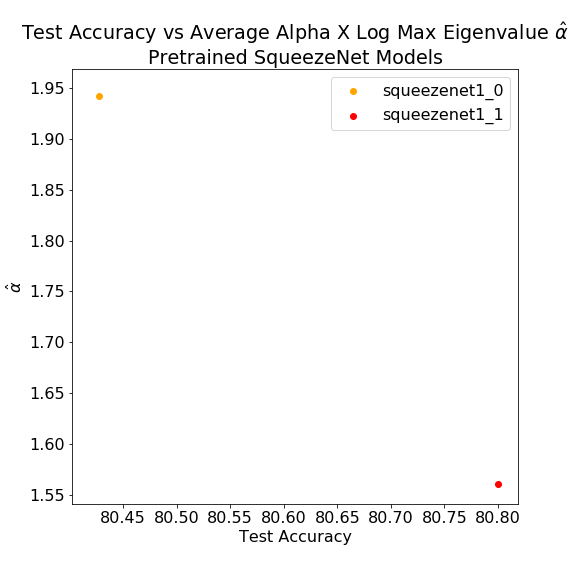
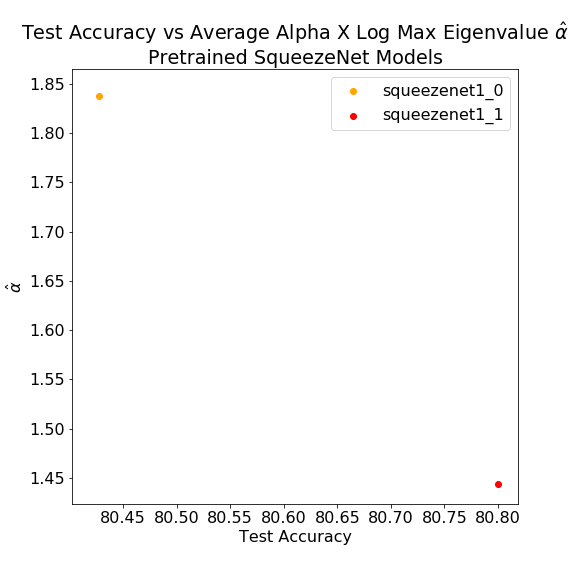
updated paper

diff --git a/test_accuracy_paper/test_accuracy_theory.tex b/test_accuracy_paper/test_accuracy_theory.tex
@@ -145,11 +145,11 @@ To that end, we consider a log complexity
 
 $$\log\mathcal{C}\sim\log\bigg[\Vert\mathbf{W}_{1}\Vert\times\Vert\mathbf{W}_{2}\Vert\cdots\Vert\mathbf{W}_{L}\Vert\bigg]$$
 
-$$\sim\bigg[\log\Vert\mathbf{W}_{1}\Vert+\log\Vert\mathbf{W}_{2}\Vert\cdots\log\Vert\mathbf{W}_{L}\Vert\bigg]$$
+$$\log\mathcal{C}\sim\bigg[\log\Vert\mathbf{W}_{1}\Vert+\log\Vert\mathbf{W}_{2}\Vert\cdots\log\Vert\mathbf{W}_{L}\Vert\bigg]$$
 
 We define the average log norm of the weight matrices as
 
-$$\langle\log\Vert\mathbf{W}\Vert_{F}\rangle=\dfrac{1}{L}\sum_{i=1}^{L}\log\Vert\mathbf{W}_{i}\Vert$$
+$$\langle\log\Vert\mathbf{W}\Vert_{F}\rangle=\dfrac{1}{N_{L}}\sum_{L}\log\Vert\mathbf{W}_{L}\Vert$$
 
 This is actually a pretty good complexity metric for comparing the test accuracies of different, pre-trained DNNs in the same series.
 Figure~ref{fig:vgg} plots $\langle\log\Vert\mathbf{W}\Vert_{F}\rangle$ vs the reported (Top1) test accuracy for the series of pre-trained
@@ -270,7 +270,6 @@ $\mathcal{S}^{log}_{Rank}$ and the ESD Power Law exponent $\alpha$
 \emph{Log-Units Stable Rank:  } 
 $$\mathcal{S}^{log}_{Rank}:=\dfrac{\log\Vert\mathbf{W}\Vert^{2}_{F}}{\log\lambda_{max}}$$
 
-
 \charlesX{I am not sure why the slope is not negative...the eigenvalues are VERY LARGE, and $\log\lambda_{max}~3-5$ so this just is OFF.
 Are we missing something in the derivation, like the fact that the norm squared has to be positive ?  HELP}
 
@@ -278,19 +277,21 @@ Are we missing something in the derivation, like the fact that the norm squared 
 \paragraph{Defining the Layer Weight Matrices}
 \charles{Here we describe how we exact the matrices. Kinda did this above already. We have not done this yet for convolutional layers--thats \emph{another} paper}
 
-$$\text{Linear Layer:}\;\;\log\Vert\mathbf{W}_{L}\Vert^{2}\rightarrow\lambda^{max}_{L}\alpha_{L}$$
+$$\text{Linear Layer:}\;\;\log\Vert\mathbf{W}_{L}\Vert^{2}_{F}\rightarrow\log\lambda^{max}_{L}\alpha_{L}$$
 
 For the Conv2D layers, we relate the 'Norm' of the 4-index Tensor $\mathbf{W}_{l}$ to the sum of the $n_{L}=c\times d$ terms for each feature map, giving 
 
-$$\text{Conv2D Layer:}\;\;\log\Vert\mathbf{W}_{L}\Vert^{2}\rightarrow \sum_{i=1}^{n_{L}}\lambda^{max}_{i,L}\alpha_{L,i}$$
+$$\text{Conv2D Layer:}\;\;\log\Vert\mathbf{W}_{L}\Vert^{2}_{F}\rightarrow \sum_{i=1}^{n_{L}}\log\lambda^{max}_{i,L}\alpha_{L,i}$$
 
-So in the expression for the product norm for $\log\mathcal{C}$, let us replace each $\log\Vert\mathbf{W}_{L}\Vert$ for layer $L$ with corresponding above expressions, and take the average over all $N_{\alpha}$  matrices.  This lets us relate the product norm complexity metric to the weighted average of power law exponents, giving
+We also note that $\log\Vert\mathbf{W}_{L}\Vert^{2}_{F}=2\log\Vert\mathbf{W}_{L}\Vert_{F}$ 
 
-$$\langle\log\Vert\mathbf{W}\Vert\rangle\rightarrow\hat{\alpha}:$$ 
+So in the expression for the product norm for $\log\mathcal{C}$, we can replace each $\log\Vert\mathbf{W}_{L}\Vert$ term for layer $L$ with the corresponding above expressions, and take the average over all $N_{\alpha}$  matrices.  This lets us relate the product norm complexity metric to the weighted average of power law exponents, giving
+
+$$2\log\mathcal{C}=\langle\log\Vert\mathbf{W}\Vert^{2}_{F}\rangle\rightarrow\hat{\alpha}$$ 
 
 where
 
-$$\hat{\alpha}:=\dfrac{1}{N_{\alpha}}\sum_{i,l}\lambda^{max}_{i,j}\alpha_{i,l}$$
+$$\hat{\alpha}:=\dfrac{1}{N_{\alpha}}\sum_{i,l}\log\lambda^{max}_{i,j}\alpha_{i,l}$$
 
 This expression resembles the more familiar product norm, but accounts for finite size effects that the product norm relation over estimates.
 % move below?

diff --git a/test_accuracy_paper/test_accuracy_appendix.tex b/test_accuracy_paper/test_accuracy_appendix.tex
@@ -62,12 +62,12 @@ ShuffleNet & shufflenetv2\_wd2 & 41.48 & \\
 
 \begin{figure}[!htb]
     \centering
-    \subfigure[DenseNet]{
-        \includegraphics[scale=0.25]{img/DenseNet_top1-lognorms.png} 
+    \subfigure[CondenseNet]{
+        \includegraphics[scale=0.25]{img/CondenseNet-w_alphas.png} 
         \label{fig:densenet-small}
     }
     \subfigure[DPN]{
-        \includegraphics[scale=0.25]{img/DPN_top1-lognorms.png} 
+        \includegraphics[scale=0.25]{img/DPN-w_alphas.png} 
         \label{fig:dpn-net}
     }
            \caption{DenseNet, DPN}
@@ -78,12 +78,12 @@ ShuffleNet & shufflenetv2\_wd2 & 41.48 & \\
 \begin{figure}[!htb]
     \centering
       \subfigure[ShuffleNet]{
-        \includegraphics[scale=0.25]{img/ShuffleNet_top1-lognorms.png} 
+        \includegraphics[scale=0.25]{img/ShuffleNet-w_alphas.png}
         \label{fig:shufflenet-small}
     }
-    \subfigure[MeNet]{
-        \includegraphics[scale=0.25]{img/MeNet_top1-lognorms.png} 
-        \label{fig:menet-net}
+   \subfigure[MobileNet]{
+        \includegraphics[scale=0.25]{img/MobileNet-w_alphas.png} 
+        \label{fig:resnet-small}
     }
         \caption{ShuffleNet, MeNet}
     \label{fig:more-examples1}
@@ -92,57 +92,42 @@ ShuffleNet & shufflenetv2\_wd2 & 41.48 & \\
 
 
 
-
-
 \begin{figure}[!htb]
- \centering
-   \includegraphics[scale=0.30]{img/ResNet_top1-lognorms.png}
-   \caption{
-Pretrained ResNet models available in OSMR package}
-  \label{fig:resnet}
+    \centering
+      \subfigure[SeResNet]{
+        \includegraphics[scale=0.25]{img/SeResNet-w_alphas.png}
+        \label{fig:shufflenet-small}
+    }
+         \subfigure[SeResNeXt]{
+        \includegraphics[scale=0.25]{img/SeResNeXt-w_alphas.png}
+        \label{fig:shufflenet-small}
+    }
+
+        \caption{SeResNet, SeResNeXt}
+    \label{fig:more-examples1}
 \end{figure}
 
 
 
 
 
-\begin{table}[t]
-\small
-\begin{center}
-\begin{tabular}{|p{1in}|c|c|c|c|c|c|c|}
-\hline
-Architecture 
- & Model
- & Top 1 Error & $\hat{\alpha}$ \\
-\hline
-ResNet (small)  & resnet10 & 37.46 & \\
-& resnet12 & 36.18 & \\
-& resnet14 & 33.17 & \\
-& resnet16 & 30.9 & \\
-& resnet18 & 29.52 & \\
-& resnet34 & 25.66 & \\
-& resnet50 & 23.79 & \\
-\hline
-CondenseNet & condensenet74\_c4\_g4 & 26.25 & \\
-& condensenet74\_c8\_g8 & 28.93 & \\
-\hline
-\end{tabular}
-\end{center}
-\caption{Counter Examples}
-\label{table:models}
-\end{table}
+
 
 
 
 \begin{figure}[!htb]
     \centering
-    \subfigure[MobileNet]{
-        \includegraphics[scale=0.25]{img/MobileNet_top1-lognorms.png} 
+    \subfigure[ResNeXt]{
+        \includegraphics[scale=0.25]{img/ResNeXt-w_alphas.png} 
         \label{fig:resnet-small}
     }
-    \subfigure[CondenseNet]{
-        \includegraphics[scale=0.25]{img/CondenseNet_top1-lognorms.png} 
-        \label{fig:condense-net}
+   \subfigure[MeNet]{
+        \includegraphics[scale=0.25]{img/MeNet-w_alphas.png} 
+        \label{fig:menet-net}
+    }
+    '   \subfigure[FDMobileNet]{
+        \includegraphics[scale=0.25]{img/FDMobileNet-w_alphas.png} 
+        \label{fig:resnet-small}
     }
         \caption{CounterExamples}
     \label{fig:counter-examples}

diff --git a/test_accuracy_paper/test_accuracy_empirical.tex b/test_accuracy_paper/test_accuracy_empirical.tex
@@ -15,30 +15,30 @@ VGG11\_BN, VGG13\_BN, VGG16\_BN and VGG19\_BN.  Figure~\ref{fig:vgg}
 \hline
 Architecture 
  & Model &Top1 
- & Top5 & $L$ & $N_{\alpha}$ & $\hat{\alpha}$ & $\hat{\alpha}*$ \\
+ & Top5 & $L$ & $N_{\alpha}$ & $\hat{\alpha}$ \\
 \hline
-VGG11 & VGG11 &  & & & & \\
-  & VGG11 BN & & \\
+VGG11 & VGG11 & & & & & \\
+  & VGG11 BN & & & & & \\
 \hline
-VGG13 & VGG13 & & \\
-  & VGG13 BN & &\\
+VGG13 & VGG13 & & & & & \\
+  & VGG13 BN & & & & & \\
 \hline
-VGG16 & VGG16 & & \\
-  & VGG16 BN & & \\
+VGG16 & VGG16 & & & & & \\
+  & VGG16 BN & & & & & \\
 \hline
-VGG19 & VGG19 & \\
-  & VGG19 BN & & \\
+VGG19 & VGG19 & & & & & \\
+  & VGG19 BN & & & & & \\
 \hline
 \end{tabular}
 \end{center}
-\caption{VGG Architectures and DNN Models}
+\caption{VGG Series of Architectures and DNN Models}
 \label{table:models}
 \end{table}
 
 
 \begin{figure}[!htb]
  \centering
-   \includegraphics[scale=0.40]{img/vgg-lognorms.png}
+   \includegraphics[scale=0.40]{img/vgg-w_alphas.png}
    \caption{
 Pretrained VGG and VGG BN Architectures and DNNs.  Test Accuracy and average log norm $\hat{\alpha*}$ for
  VGG11 vs VGG11\_BN ({\color{blue}{blue}}),
@@ -51,23 +51,6 @@ Note that $\hat{\alpha}*$ does not include the last layer, connecting the model 
 \end{figure}
 
 
-\paragraph{ResNet PyTorch Models}
-
-\begin{figure}[!htb]
- \centering
-   \includegraphics[scale=0.40]{img/resnet-pytorch.png}
-   \caption{
-Pretrained ResNet models available in PyTorch
-}
-  \label{fig:resnet}
-\end{figure}
-
-
-
-\paragraph{More PreTrained Models}
-
-More Pretrained Models
-
 
 \begin{table}[t]
 \small
@@ -76,13 +59,15 @@ More Pretrained Models
 \hline
 Architecture 
  & Model
- & Test Accuracy \\
+ & Top 1 Error & $\hat{\alpha}$ \\
 \hline
-ResNet (larger) & & \\
-\hline
-ResNet (extended) & & \\
-\hline
-ResNet (b) & & \\
+ResNet  & resnet10 & 37.46 & \\
+& resnet12 & 36.18 & \\
+& resnet14 & 33.17 & \\
+& resnet16 & 30.9 & \\
+& resnet18 & 29.52 & \\
+& resnet34 & 25.66 & \\
+& resnet50 & 23.79 & \\
 \hline
 \end{tabular}
 \end{center}
@@ -91,6 +76,22 @@ ResNet (b) & & \\
 \end{table}
 
 
+\begin{figure}[!htb]
+ \centering
+   \includegraphics[scale=0.30]{img/ResNet-w_alphas.png}
+   \caption{
+Pretrained ResNet Series of Architectures}
+  \label{fig:resnet}
+\end{figure}
+
+
+
+
+
+
+\paragraph{More PreTrained Models}
+
+More Pretrained Models
 
 
 \begin{table}[t]
@@ -120,11 +121,11 @@ SqueezeNet & & \\
 \begin{figure}[!htb]
     \centering
     \subfigure[DenseNet] {
-        \includegraphics[scale=0.3]{img/densenet-lognorms.png} 
+        \includegraphics[scale=0.3]{img/densenet-pytorch-w_alphas.png} 
         \label{fig:densenet}
     }
     \subfigure[SqueezeNet]{
-        \includegraphics[scale=0.3]{img/squeezenet-lognorms.png} 
+        \includegraphics[scale=0.3]{img/squeezenet-pytorch-w_alphas.png} 
         \label{fig:squeezenet}
     }
         \caption{Densenet and SqueezeNet PyTorch Models}
